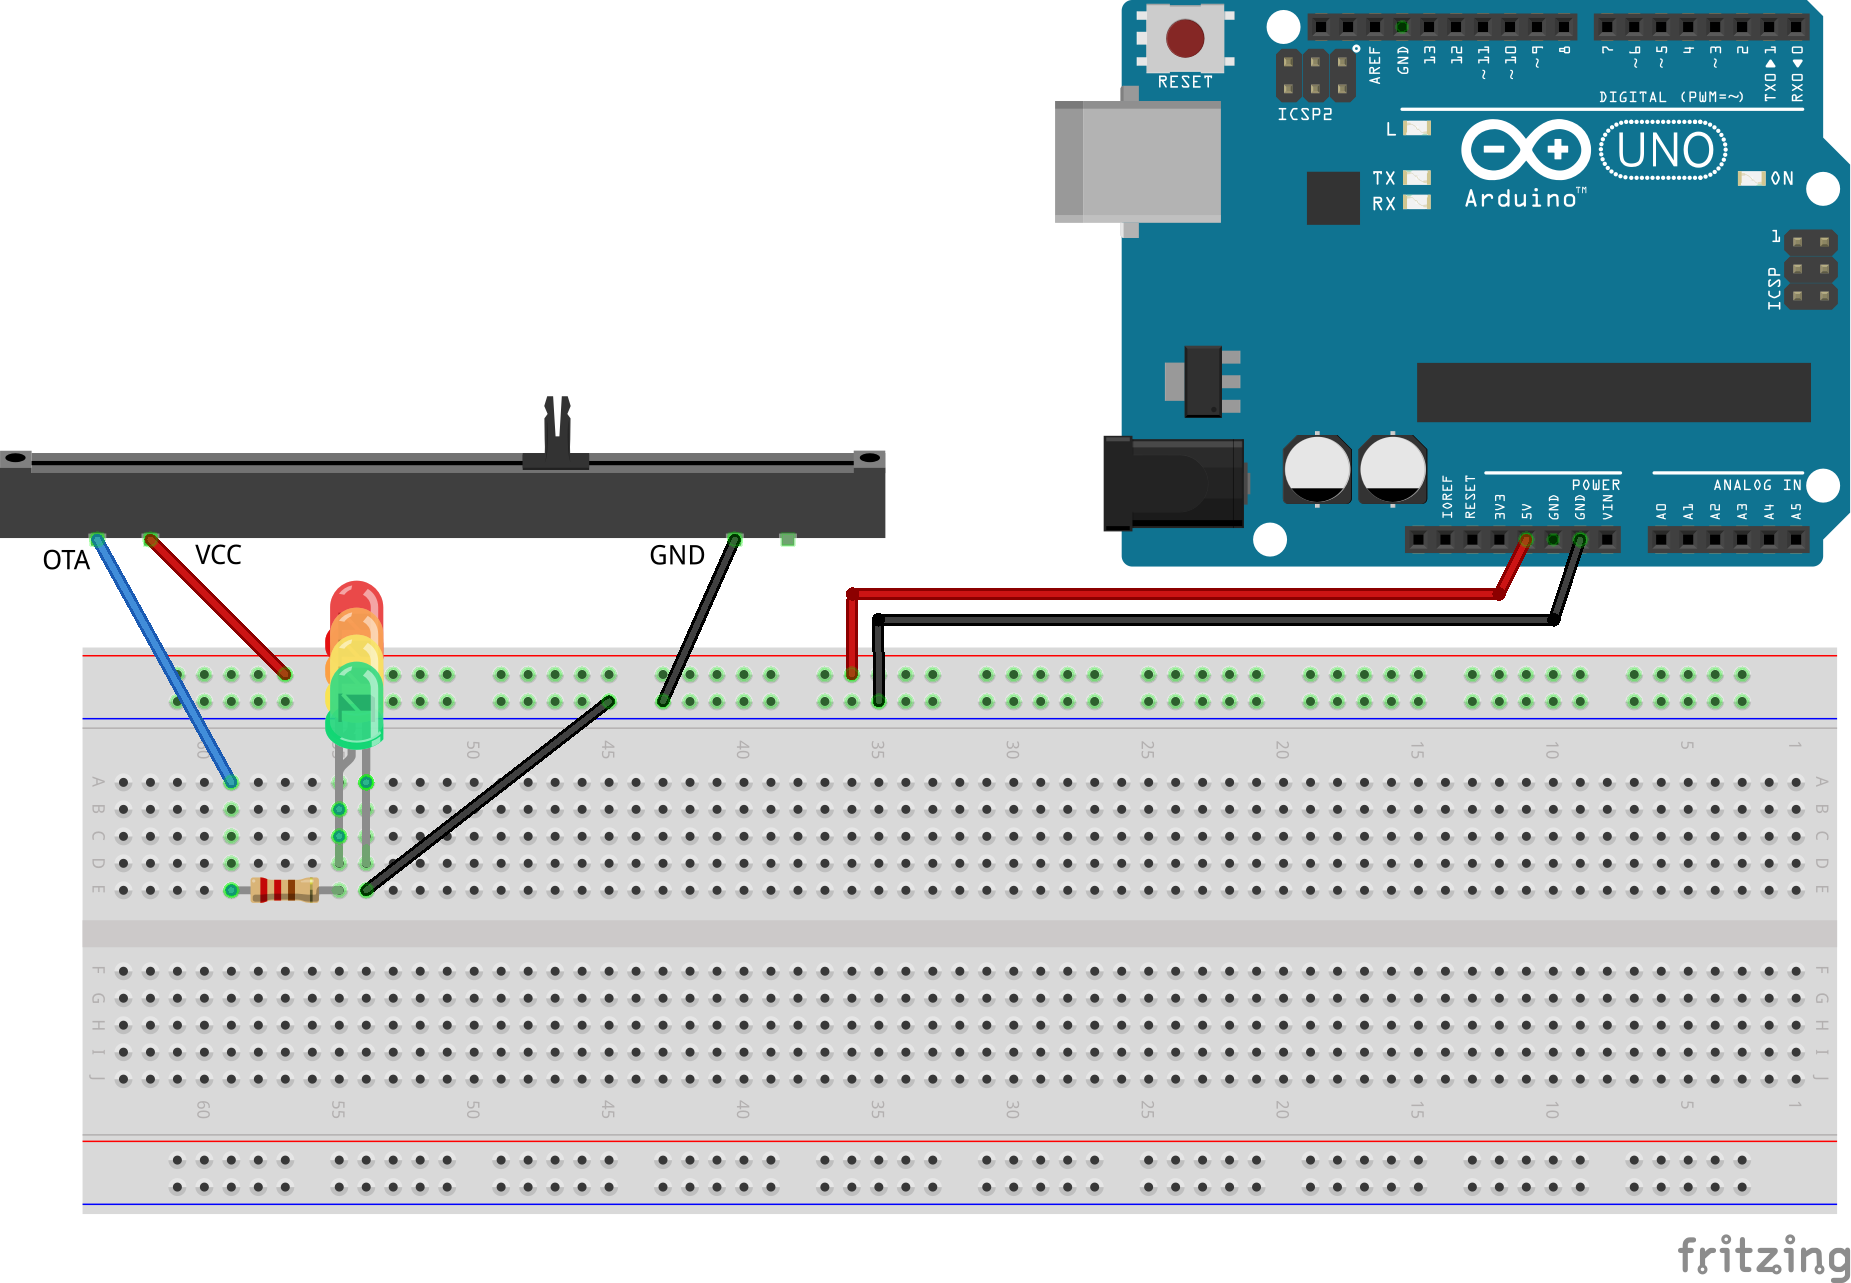
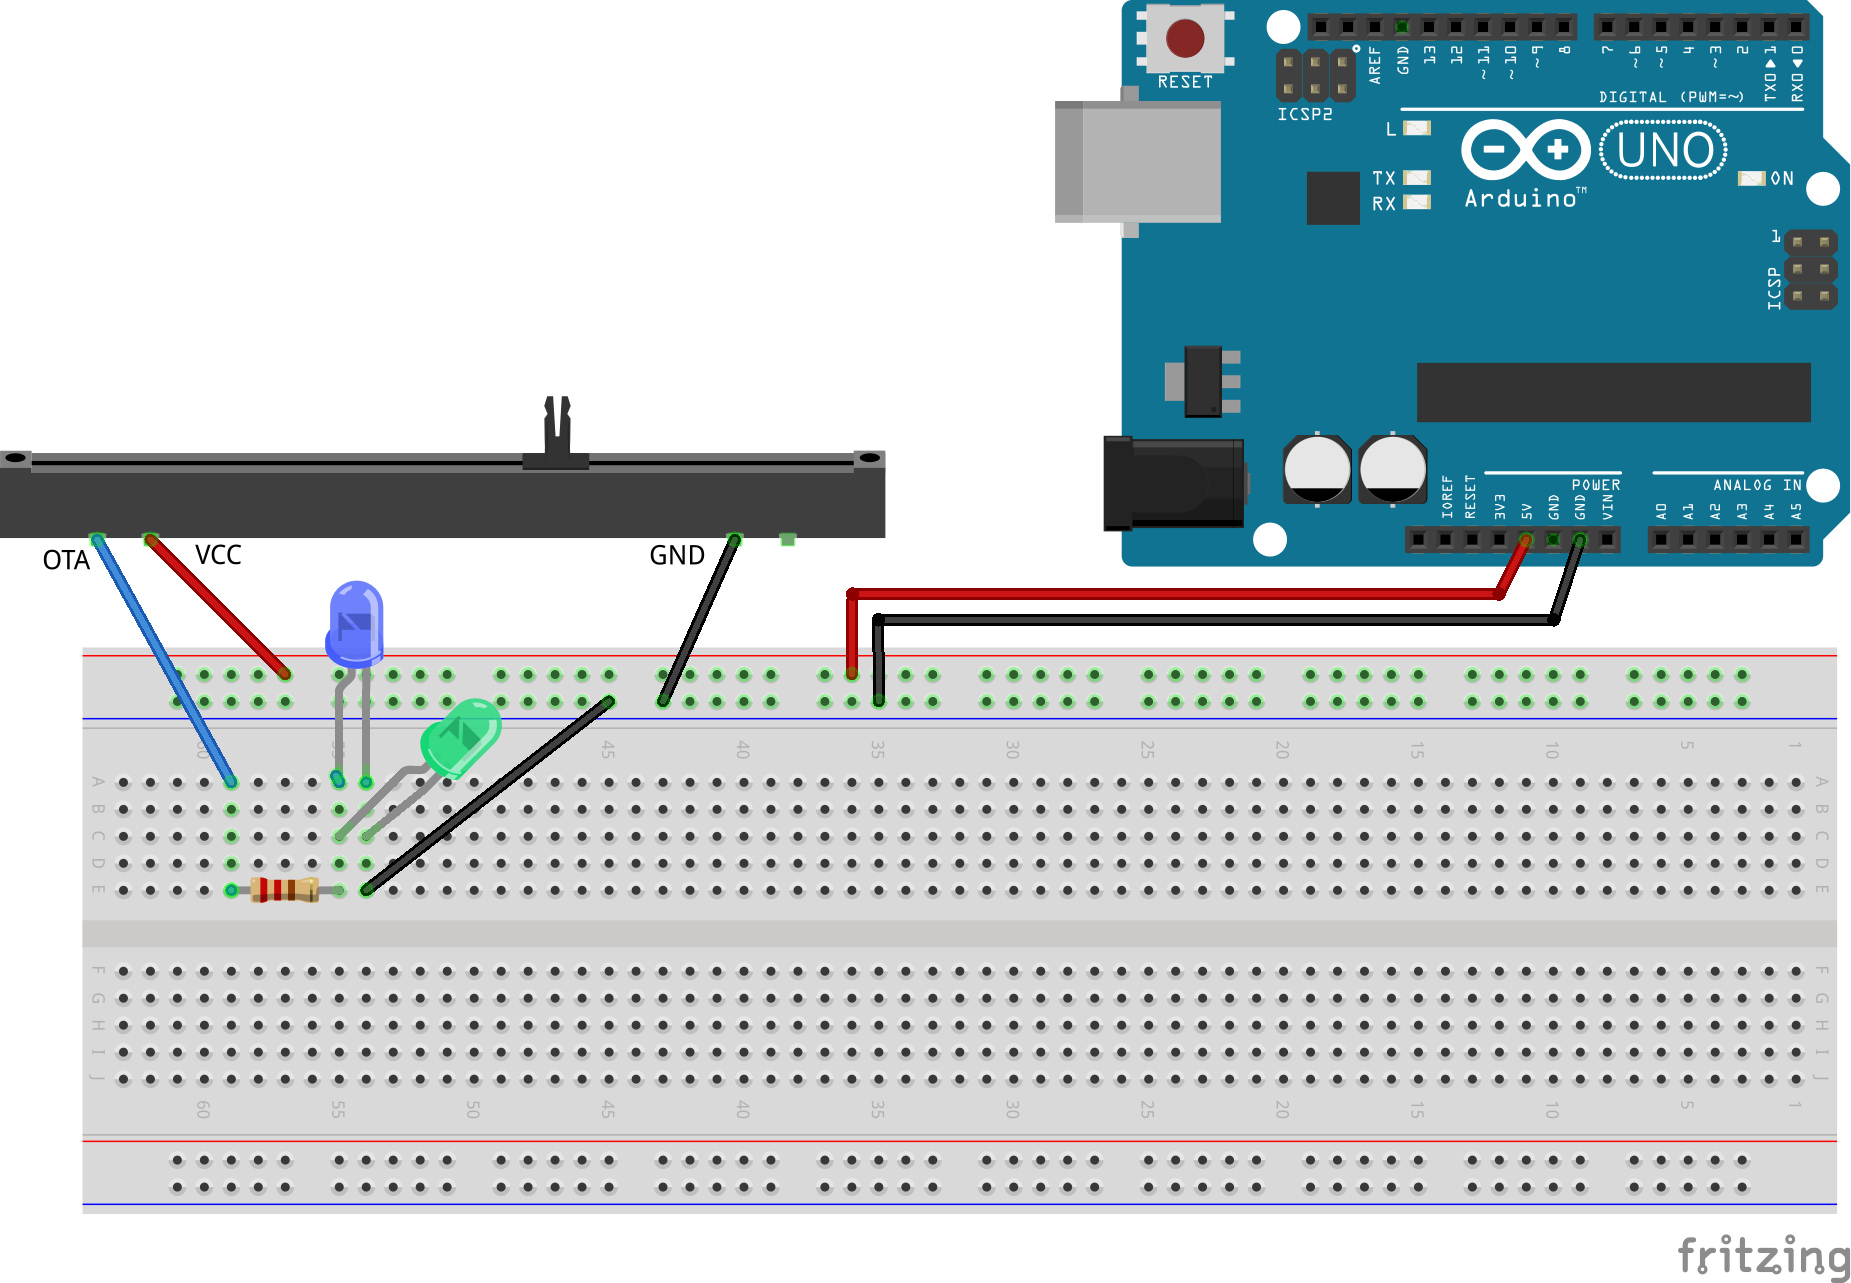
fixes to parallel LED exercise

Changed region(s): [[0.154, 0.4365, 0.2771, 0.6859]]

diff --git a/docs/index.html b/docs/index.html
@@ -92,6 +92,18 @@ ievades un izvades moduļi.</p>
     <tr>
         <td>1.nodarbība</td>
         <td>
+            Iepazīšanās ar maketēšanas plati un potenciometru. 
+        </td>
+        <td>
+            Maketēšanas plates kontaktu pārbaude ar multimetru, lai 
+            noskaidrotu, kuri ir savienoti.
+            Sprieguma mērīšana starp potenciometra kontaktiem <b>OTA</b> un 
+            <b>GND</b>.
+        </td>
+    </tr>
+    <tr>
+        <td>1.nodarbība</td>
+        <td>
             <a href="https://github.com/kapsitis/avg-arduino/tree/main/sandbox/KalvisA/PlainCircuits/LED_and_Resistor">LED diodes un 220 Ω rezistora ķēde</a>
         </td>
         <td>Oma likums. Ierobežojoša rezistora aprēķins. Lineāras nevienādības.</td>

diff --git a/sandbox/KalvisA/PlainCircuits/Potentiometer/README.md b/sandbox/KalvisA/PlainCircuits/Potentiometer/README.md
@@ -3,11 +3,11 @@
 Šajā vingrinājumā pieslēdzam potenciometru, lai varētu mainīt 
 spriegumu, kuru saņem LED diodes un $220~\Omega$ rezistora ķēde.
 
-**Maketēšanas shēma:**
+**Viena LED lampiņa ar potenciometru: Maketēšanas shēma:**
 
 ![](Potentiometer_bb.png)
 
-**Elektriskā shēma:** 
+**Viena LED lampiņa ar potenciometru: Elektriskā shēma:** 
 
 ![](Potentiometer_schem.png)
 
@@ -33,22 +33,27 @@ tad drīkst padot arī mazāku spriegumu, neriskējot nodedzināt LED diodi.
 
 1. Pārbaudīt sprieguma izmaiņas starp **GND** un **OTA** ar multimetru 
    (ieslēgt to 20 voltu diapazonā). 
-2. Pārbaudīt, pie kāda sprieguma iedegas dažādu krāsu LED, ja tās 
-   saslēgtas paralēli (kā zīmējumā). Nosakām to spriegumu, pie kura LED lampiņa 
-   iedegas kaut vai ļoti blāvi.
-   Pēc teorijas vajadzētu būt tā, ka pirmā (pie viszemākā sprieguma) iedegas sarkanā 
-   lampiņa, tad oranžā, tad dzeltenā, tad zaļā un visbeidzot zilā. 
+2. Pārbaudīt, pie kāda sprieguma iedegas dažādu krāsu LED. 
+   Katras krāsas LED ieslēgt sākotnējā ķēdē. Vispirms ar potenciometru (pārbīdot 
+   regulatoru uz maksimumu)
+   pārbauda, vai diode ieslēgta pareizi. Pēc tam spriegumu lēnām kāpina no nulles 
+   līdz maksimumam un atrod to mirkli, kurā diode sāk dot nelielu, blāvu gaismu. 
+   Šo sprieguma vērtību pieraksta.
+   Pēc teorijas vajadzētu būt tā, ka sarkanā diode iedegas pie viszemākā sprieguma 
+   (ap $1.7~\text{V}$), bet zilā un arī baltā (caurspīdīgā) diodes iedegas pie 
+   augstāka sprieguma (ap $2.5~\text{V}$). Palielinot spriegumu, lampiņas iedegas 
+   varavīksnes krāsu secībā: Vispirms sarkanā, tad oranžā, tad dzeltenā, 
+   tad zaļā un visbeidzot zilā. 
+3. Tam pašam spriegumam paralēli pieslēdz divas LED lampiņas dažādās krāsās. 
+   Noskaidro, kurām no tām viena lampiņa (pat pie maksimāla sprieguma uz potenciometra)
+   pilnībā nomāc otru un deg viena pati, bet kuras lampiņas var degt vienlaicīgi. 
+   Divu lampiņu paralēls slēgums parādīts attēlos.
 
-*Piezīme:* Tā kā lampiņas saslēgtas paralēli, tad uz tām visām ir vienāds spriegums - 
-un tās var būt virknē ar vienu rezistoru, kurš tām visām ir kopīgs. 
-Var, protams, izmantot arī katrai LED lampiņai atsevišķu rezistoru. 
-
-**Maketēšanas shēma:**
+**Divas LED lampiņas paralēli pie potenciometra: Maketēšanas shēma**
 
 ![](Potentiometer_multiple_LED_bb.png)
 
-**Elektriskā shēma:** 
+**Divas LED lampiņas paralēli pie potenciometra: Elektriskā shēma**
 
 ![](Potentiometer_multiple_LED_schem.png)
-
 
